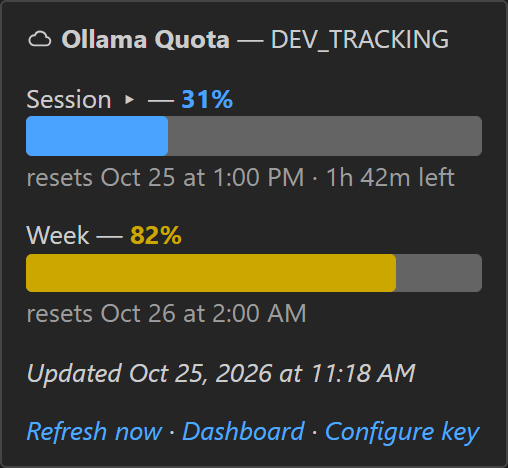
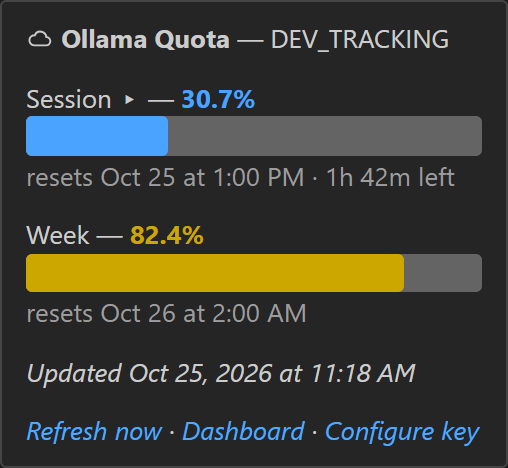
docs(readme): legacy capture shows decimal percentages and stacked model charts

Changed region(s): [[0.3839, 0.1795, 0.502, 0.2393], [0.2953, 0.4786, 0.4134, 0.5385], [0.7677, 0.5385, 0.7972, 0.6282]]

diff --git a/README.md b/README.md
@@ -12,15 +12,15 @@ Displays your remaining **Ollama Cloud** quota in the VS Code status bar.
 
 - Queries Ollama's documented endpoints (`https://ollama.com/api/balance` and `/api/usage`) using an API key created at `https://ollama.com/settings/keys`.
 - Shows the **used %** (default) or the **remaining %** in the Status Bar, controlled by the `ollamaQuota.displayMode` option — the setting drives the hover tooltip and the dashboard meters too, so every view shows and fills the same percentage. Percentages keep the API's decimals everywhere (at most one, like ollama.com itself: `58.7%` stays `58.7%`, `60%` stays `60%`).
-- **Dashboard webview**: click the status bar item (or run `Ollama Quota: Open Dashboard`) for quota meters, daily usage charts of the active week and month, and token management. On plans with model data the chart bars are **stacked by model** with a colour legend (a model keeps its colour across charts and refreshes), alongside a per-model usage breakdown, and hovering a stacked bar spotlights **one segment at a time** — the rest of the stack dims and a native tooltip names the day, the model and its spend (e.g. `Oct 15 · glm-5.3-flash — 440 requests ($0.85)`). Charts adapt to narrow panels: a full month is ticked with the bare day number in every column (the card title carries the month) and thins down to the anchors — the 1st, the Mondays, the busiest day and today — before dropping labels, while days without requests render a neutral tick instead of a bar.
+- **Dashboard webview**: click the status bar item (or run `Ollama Quota: Open Dashboard`) for quota meters, daily usage charts of the active week and month, and token management. When the usage API reports model data the chart bars are **stacked by model** with a colour legend (a model keeps its colour across charts and refreshes), alongside a per-model usage breakdown, and hovering a stacked bar spotlights **one segment at a time** — the rest of the stack dims and a native tooltip names the day, the model and its spend (e.g. `Oct 15 · glm-5.3-flash — 440 requests ($0.85)`). Charts adapt to narrow panels: a full month is ticked with the bare day number in every column (the card title carries the month) and thins down to the anchors — the 1st, the Mondays, the busiest day and today — before dropping labels, while days without requests render a neutral tick instead of a bar.
 
-Dashboard (credits plan — a decimal percentage on the meter, week/month charts stacked by model with the Oct 15 glm-5.3-flash segment hovered — spotlight and tooltip shown —, per-model tables and the token selector):
+Dashboard (credits plan — a decimal percentage on the meter, week/month charts stacked by model with the Oct 24 glm-5.3-flash segment hovered — spotlight and tooltip shown —, per-model tables and the token selector):
 
 ![Dashboard on the credits plan: included credits meter, active week and active month charts with per-model tables, token selector](media/dashboard-credits.png)
 
-Dashboard (legacy plan — session/weekly meters; usage charts carry no model tables because legacy usage reports no model data):
+Dashboard (legacy plan — session/weekly meters with the API's decimal percentages and the same stacked-by-model charts, a colour legend and per-model tables):
 
-![Dashboard on the legacy plan with session and weekly meters and usage charts without model tables](media/dashboard-legacy.png)
+![Dashboard on the legacy plan with decimal meter percentages and stacked model charts with per-model tables](media/dashboard-legacy.png)
 
 - **Multiple API tokens**: store several named keys and switch between them; only the active one is polled, so the shared rate limit (10 requests/minute) is respected.
 - Tooltip and dashboard timestamps (resets, update times, chart labels) rendered as e.g. `Nov 1 at 1:00 AM`; the clock can be forced to 12‑ or 24‑hour via `ollamaQuota.tooltipTimeFormat`.
